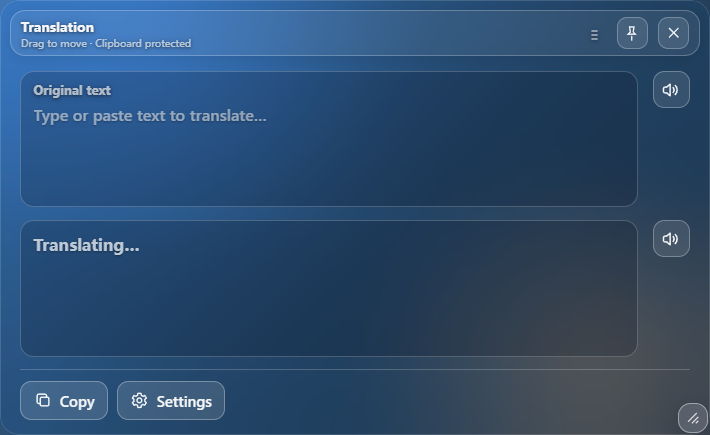
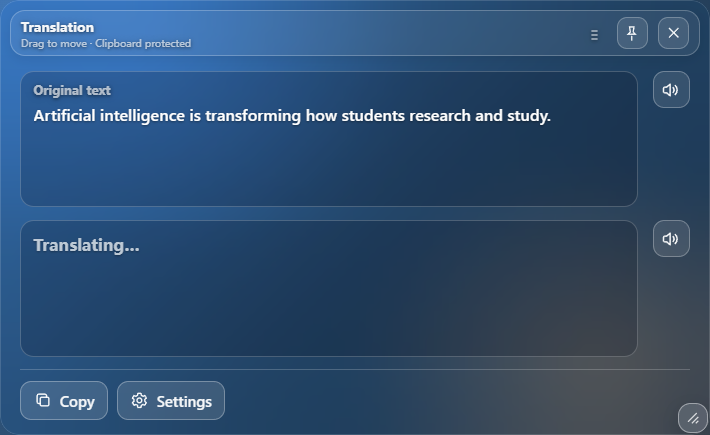
feat: refine popup appearance spacing and motion

Changed region(s): [[0.031, 0.2391, 0.7746, 0.2989]]

diff --git a/src/renderer/shared/popup.css b/src/renderer/shared/popup.css
@@ -38,7 +38,8 @@
   display: flex;
   flex-direction: column;
   overflow: hidden;
-  animation: popup-in 150ms cubic-bezier(0.2, 0.8, 0.2, 1);
+  animation: popup-in 280ms var(--ht-action-spring);
+  will-change: transform, opacity, filter;
 
   /* BrowserWindow 与卡片同尺寸，不绘制卡片外阴影或顶部高光。 */
   box-shadow: none;
@@ -49,16 +50,18 @@
 }
 
 .popup-root.popup-closing .liquid-glass-card {
-  animation: popup-out 140ms cubic-bezier(0.4, 0, 1, 1) forwards;
+  animation: popup-out 190ms var(--ht-action-press) forwards;
 }
 
 @keyframes popup-in {
   from {
     opacity: 0;
-    transform: translateY(4px) scale(0.99);
+    filter: blur(5px);
+    transform: translateY(8px) scale(0.975);
   }
   to {
     opacity: 1;
+    filter: blur(0);
     transform: translateY(0) scale(1);
   }
 }
@@ -66,11 +69,13 @@
 @keyframes popup-out {
   from {
     opacity: 1;
+    filter: blur(0);
     transform: translateY(0) scale(1);
   }
   to {
     opacity: 0;
-    transform: translateY(3px) scale(0.99);
+    filter: blur(4px);
+    transform: translateY(5px) scale(0.98);
   }
 }
 
@@ -183,6 +188,11 @@
   flex-direction: column;
   gap: 10px;
   overflow: hidden;
+}
+
+/* Appearance 展开时锁定打开前的正文高度；新增的窗口空间只分配给设置面板。 */
+.popup-card.panel-open .pop-body {
+  flex: 0 0 var(--ht-panel-body-height, 278px);
 }
 
 /* 原文区（独立 div）：与译文区等分空间 */
@@ -527,14 +537,19 @@
 .settings-panel {
   position: relative;
   z-index: 8;
-  flex: 0 0 auto;
+  flex: 1 1 0;
+  min-height: 0;
   box-sizing: border-box;
-  overflow: hidden;
+  overflow-x: hidden;
+  overflow-y: auto;
+  scrollbar-gutter: stable;
+  scrollbar-width: thin;
+  scrollbar-color: rgba(255, 255, 255, 0.5) rgba(255, 255, 255, 0.07);
   display: flex;
   flex-direction: column;
-  gap: 11px;
+  gap: 15px;
   margin-top: 12px;
-  padding: 13px;
+  padding: 16px;
   border: 1px solid rgba(255, 255, 255, 0.18);
   border-radius: 16px;
   /* LiquidGlass 的 inline background/backdrop-filter 提供当前外观参数。 */
@@ -543,12 +558,49 @@
   color: var(--ht-text);
   user-select: none;
   isolation: isolate;
+  animation: settings-panel-in 260ms var(--ht-action-spring);
+  will-change: transform, opacity, filter;
+}
+
+@keyframes settings-panel-in {
+  from {
+    opacity: 0;
+    filter: blur(4px);
+    transform: translateY(8px) scale(0.985);
+  }
+  to {
+    opacity: 1;
+    filter: blur(0);
+    transform: translateY(0) scale(1);
+  }
+}
+
+.settings-panel::-webkit-scrollbar {
+  width: 8px;
+}
+
+.settings-panel::-webkit-scrollbar-track {
+  border-radius: 20px;
+  background: rgba(255, 255, 255, 0.07);
+}
+
+.settings-panel::-webkit-scrollbar-thumb {
+  border: 2px solid transparent;
+  border-radius: 20px;
+  background: rgba(255, 255, 255, 0.5);
+  background-clip: padding-box;
+}
+
+.settings-panel::-webkit-scrollbar-thumb:hover {
+  background: rgba(255, 255, 255, 0.68);
+  background-clip: padding-box;
 }
 
 .panel-head {
   display: flex;
   align-items: flex-start;
   justify-content: space-between;
+  margin-bottom: 2px;
 }
 
 .panel-title {
@@ -599,7 +651,8 @@
 .panel-presets {
   display: flex;
   flex-wrap: wrap;
-  gap: 8px;
+  gap: 10px;
+  margin-top: 7px;
 }
 
 .preset-btn {
@@ -607,8 +660,8 @@
   flex: 1 1 96px;
   display: flex;
   align-items: center;
-  gap: 3px;
-  padding: 6px 8px;
+  gap: 8px;
+  padding: 7px 10px;
   border-radius: 10px;
   border: 1px solid rgba(255, 255, 255, 0.2);
   background: rgba(255, 255, 255, 0.08);
@@ -638,7 +691,7 @@
 .panel-grid {
   display: grid;
   grid-template-columns: 1fr 1fr;
-  gap: 9px;
+  gap: 12px;
 }
 
 .panel-item {
@@ -671,7 +724,7 @@
 .panel-select {
   width: 100%;
   height: 34px;
-  margin-top: 5px;
+  margin-top: 8px;
   padding: 0 34px 0 11px;
   box-sizing: border-box;
   border: 1px solid rgba(255, 255, 255, 0.24);
@@ -778,7 +831,7 @@
   display: flex;
   align-items: center;
   justify-content: space-between;
-  gap: 12px;
+  gap: 20px;
   min-height: 48px;
   padding: 8px 10px;
   border: 1px solid rgba(255, 255, 255, 0.2);
@@ -792,6 +845,7 @@
   min-width: 0;
   display: flex;
   flex-direction: column;
+  gap: 3px;
 }
 
 .toggle-title {
@@ -802,7 +856,6 @@
 }
 
 .toggle-sub {
-  margin-top: 2px;
   font-family: var(--ht-zh-font);
   font-size: 10px;
   color: var(--ht-text-dim);

diff --git a/src/renderer/shared/tokens.css b/src/renderer/shared/tokens.css
@@ -16,6 +16,10 @@
   --ht-fill-hover: rgba(255, 255, 255, 0.16);
   /* keeps glass text readable over bright desktop content */
   --ht-text-shadow: 0 1px 3px rgba(0, 0, 0, 0.55), 0 0 8px rgba(0, 0, 0, 0.25);
+  --ht-action-ease: cubic-bezier(0.2, 0.8, 0.2, 1);
+  --ht-action-spring: cubic-bezier(0.22, 1, 0.36, 1);
+  --ht-action-press: cubic-bezier(0.32, 0, 0.67, 0);
+  --ht-action-duration: 150ms;
 }
 
 * {
@@ -34,6 +38,7 @@ body,
 body {
   overflow: hidden;
   font-family: var(--ht-font-en), var(--ht-font-zh);
+  font-optical-sizing: auto;
   color: var(--ht-text);
   text-shadow: var(--ht-text-shadow);
   user-select: none;
@@ -119,7 +124,7 @@ body {
   filter: blur(calc(var(--ht-glass-blur, 10px) * 2.6));
   opacity: calc(1 - var(--ht-glass-blur-progress, 0) * 0.32);
   transform: scale(var(--ht-glass-blur-scale, 1.033));
-  transition: filter 120ms ease, opacity 120ms ease, transform 120ms ease;
+  transition: filter 180ms var(--ht-action-spring), opacity 180ms ease, transform 180ms var(--ht-action-spring);
 }
 
 /* =========================================================
@@ -130,6 +135,84 @@ body {
 .glass-btn,
 .titlebar-btn {
   color: var(--ht-text);
+}
+
+/* 所有可操作控件共用同一套轻量反馈；只改变视觉，不影响布局。 */
+button,
+select,
+input[type='range'],
+input[type='checkbox'],
+input[type='color'] {
+  transition:
+    transform var(--ht-action-duration) var(--ht-action-ease),
+    background-color var(--ht-action-duration) ease,
+    border-color var(--ht-action-duration) ease,
+    box-shadow var(--ht-action-duration) ease,
+    filter var(--ht-action-duration) ease,
+    opacity var(--ht-action-duration) ease;
+}
+
+button:not(:disabled):hover {
+  transform: translateY(-1px);
+  filter: brightness(1.08);
+}
+
+button:not(:disabled):active {
+  transform: translateY(0) scale(0.96);
+  filter: brightness(0.98);
+  transition-duration: 80ms;
+  transition-timing-function: var(--ht-action-press);
+}
+
+button:focus-visible,
+select:focus-visible,
+input:focus-visible {
+  outline: none;
+  box-shadow: 0 0 0 3px rgba(150, 210, 255, 0.2);
+}
+
+select:not(:disabled):hover,
+input[type='range']:not(:disabled):hover,
+input[type='color']:not(:disabled):hover {
+  filter: brightness(1.1);
+}
+
+input[type='range']:not(:disabled):active {
+  filter: brightness(1.16);
+}
+
+@media (prefers-reduced-motion: reduce) {
+  *,
+  *::before,
+  *::after {
+    scroll-behavior: auto !important;
+    animation-duration: 0.01ms !important;
+    animation-iteration-count: 1 !important;
+    transition-duration: 0.01ms !important;
+  }
+}
+
+@media (prefers-reduced-transparency: reduce) {
+  .liquid-glass-card,
+  .glass-filter-layer,
+  .settings-titlebar,
+  .pop-header {
+    backdrop-filter: none !important;
+    -webkit-backdrop-filter: none !important;
+    background-color: rgba(20, 24, 32, 0.94) !important;
+  }
+}
+
+@media (prefers-contrast: more) {
+  :root {
+    --ht-text: rgba(255, 255, 255, 1);
+    --ht-text-dim: rgba(255, 255, 255, 0.82);
+    --ht-stroke: rgba(255, 255, 255, 0.42);
+  }
+
+  .liquid-glass-card::before {
+    border-color: var(--ht-stroke);
+  }
 }
 
 ::-webkit-scrollbar {

diff --git a/src/renderer/popup/App.tsx b/src/renderer/popup/App.tsx
@@ -94,6 +94,7 @@ export default function App() {
   const [closing, setClosing] = useState(false)
   const [copied, setCopied] = useState(false)
   const [panelOpen, setPanelOpen] = useState(DEMO_PARAMS.get('panel') === '1')
+  const [panelBodyHeight, setPanelBodyHeight] = useState<number | null>(null)
   const [appearance, setAppearance] = useState<PopupAppearance>(DEFAULT_APPEARANCE)
   const [originalInput, setOriginalInput] = useState('')
   const inputTranslateTimer = useRef<number | null>(null)
@@ -269,6 +270,10 @@ export default function App() {
   /** 开关内嵌设置面板；主进程记录原始窗口边界并按工作区展开/恢复。 */
   const togglePanel = () => {
     const next = !panelOpen
+    if (next) {
+      const body = document.querySelector<HTMLElement>('.pop-body')
+      setPanelBodyHeight(body?.getBoundingClientRect().height ?? null)
+    }
     setPanelOpen(next)
     ht?.popup?.setSettingsOpen(next)
   }
@@ -465,7 +470,8 @@ export default function App() {
         tintAlpha={Math.max(POPUP_FROSTED_MIN_OPACITY, appearance.glassOpacity)}
         tintColor="#47494f"
         blur={appearance.glassBlur}
-        className="popup-card"
+        className={`popup-card${panelOpen ? ' panel-open' : ''}`}
+        style={panelBodyHeight === null ? undefined : ({ '--ht-panel-body-height': `${panelBodyHeight}px` } as React.CSSProperties)}
       >
         {/* 2. header：玻璃拖动头（标题/副标题/把手 + 图钉 + 关闭） */}
         <div

diff --git a/README.md b/README.md
@@ -52,6 +52,12 @@ Highlight Text → Mouse Up → Read Selection (UIA / Clipboard)
 | 已实现 | 旧版 Settings 的 90%/30px 白色玻璃参数会一次性迁移为 Header 默认值；Appearance 主窗口透明度下限可调至 2%，与 Popup tint 参数独立 |
 | 已实现 | Liquid Glass 顶部 specular、内侧白色高光线和 Popup 蓝/青色光晕已移除，Popup 外层改为无底色毛玻璃 |
 | 已实现 | Settings 主体与 Header 共用相同 LiquidGlass 参数通路；Appearance 的 opacity、blur、color 和背景设置可即时调节主体；Popup 参数也即时推送到已显示的翻译窗口 |
+| 已实现 | Popup 内嵌 Appearance 使用弹窗扩展后的剩余高度；内容超出时在面板内部滚动，并显示可拖动的窄型半透明 scrollbar |
+| 已实现 | 打开 Popup 内嵌 Appearance 时锁定原文与译文区域的原始高度，新增窗口高度只分配给设置面板 |
+| 已实现 | Popup 与 Settings 的所有可操作控件统一提供 hover、按压、键盘 focus 动画反馈；窗口和 Appearance 使用可中断感更强的材质进出过渡，并遵循 reduced-motion、reduced-transparency 与高对比度偏好 |
+| 已实现 | Popup 内嵌 Appearance 增加面板内边距与控件分组间距，避免设置项紧贴边缘或彼此拥挤；滚动区域保持可用 |
+| 已实现 | Appearance 主题按钮、开关和字体选择增加文字与控件间距，提升小尺寸弹窗中的可读性 |
+| 已实现 | Popup Appearance 的 FONT THEMES 标题说明与主题按钮之间增加独立留白，避免视觉贴合 |
 
 ## 目录结构
 
